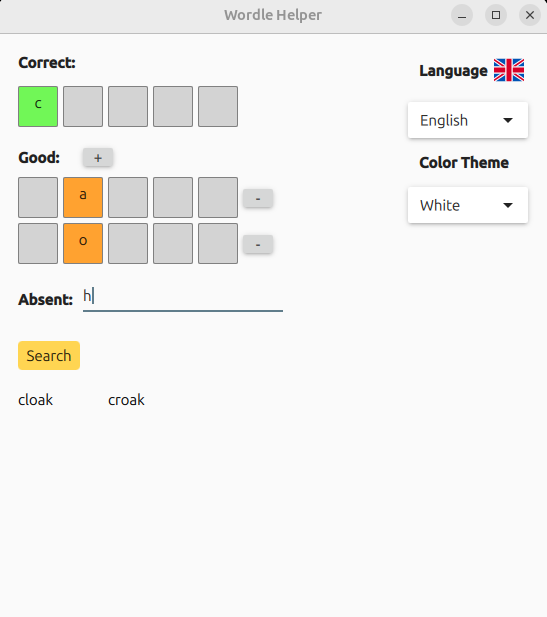
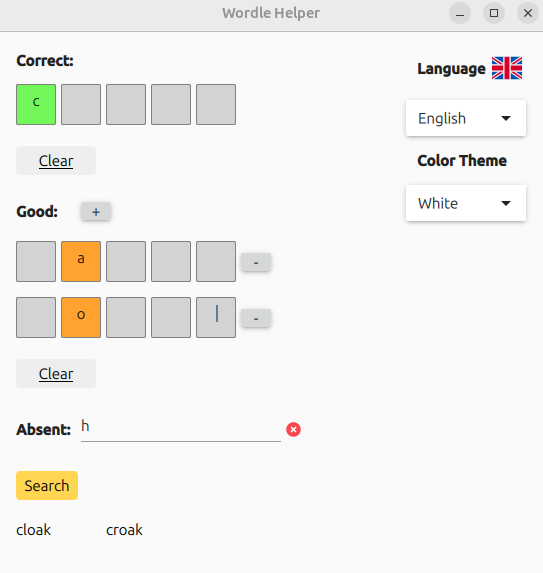
Add clear and delete buttons when letters in rows + minor improvements for optimization purpose

diff --git a/Main.qml b/Main.qml
@@ -1,7 +1,6 @@
 import QtQuick
 import QtQuick.Controls
 import QtQuick.Layouts
-import QtQuick.Controls.Basic
 import QtQuick.Controls.Material
 import QtQml.Models
 import WordleHelper
@@ -21,12 +20,16 @@ ApplicationWindow {
     Material.accent: Material.BlueGrey
 
     property string language: ""
-    property var correctLetters: ["", "", "", "", ""]
     property bool seen: false
 
     // Good rows
     ListModel {
         id: goodRows
+        ListElement { l0: ""; l1: ""; l2: ""; l3: ""; l4: "" }
+    }
+    // Correct row
+    ListModel {
+        id: correctRow
         ListElement { l0: ""; l1: ""; l2: ""; l3: ""; l4: "" }
     }
 
@@ -46,24 +49,66 @@ ApplicationWindow {
         return !rowIsEmpty(last);
     }
 
+    // Function to check that at least one letter is present in a row of a model
+    function modelHasLetters(model){
+        for (var i = 0, row; i < model.count; i++)
+        {
+            row = model.get(i);
+            if (!rowIsEmpty(row))
+            {
+                return true
+            }
+        }
+        return false
+    }
+
+    // Function to clear letters from rows when clearButton pressed
+    function clearModel(model) {
+        model.set(0, { l0:"", l1:"", l2:"", l3:"", l4:"" });
+        while (model.count > 1) model.remove(1);
+    }
+
     component ClearButton: Button {
+        id: clearButton
         text: "Clear"
         Layout.preferredWidth: 80
 
         background: Rectangle {
             radius: 4
             border.width: 1
-            border.color: "#999"
-            color: control.down ? "#ddd" : "#eee"
+            border.color: clearButton.down ? "#ddd" : "#eee"
+            color: clearButton.down ? "#ddd" : "#eee"
         }
 
         contentItem: Text {
-            text: control.text
+            text: clearButton.text
             color: "black"
             horizontalAlignment: Text.AlignHCenter
             verticalAlignment: Text.AlignVCenter
             anchors.centerIn: parent
+            font.underline: true
         }
+    }
+
+    component DeleteButton: Item {
+        id: deleteButton
+        width: 15
+        height: 15
+
+        Image {
+            id: img
+            anchors.fill: parent
+            source: "qrc:/images/cancel.png"
+            fillMode: Image.PreserveAspectFit
+        }
+
+        MouseArea {
+                anchors.fill: parent
+                cursorShape: Qt.PointingHandCursor
+                onClicked: deleteButton.clicked()
+            }
+
+        signal clicked()
     }
 
     WordleBackend {
@@ -101,66 +146,71 @@ ApplicationWindow {
                     RowLayout {
 
                         Repeater {
-                            model: 5
+                            model: correctRow
 
-                            delegate: TextField {
-                                id: field
-                                objectName: "correctField" + index
-                                Layout.preferredWidth: 40
-                                maximumLength: 1
-                                horizontalAlignment: Text.AlignHCenter
-                                text: correctLetters[index]
+                            delegate: RowLayout {
 
-                                onTextChanged: {
+                                property string p0: l0
+                                property string p1: l1
+                                property string p2: l2
+                                property string p3: l3
+                                property string p4: l4
 
-                                    correctLetters[index] = text
-                                    bg1.color = text.trim() === "" ? "lightgray" : "#71F757"
-                                    // Move to next field automatically
-                                    if (text.length === 1 && index < 4) {
-                                        var next = parent.children[index + 1]
-                                        if (next) next.forceActiveFocus()
-                                    }
-                                }
+                                Repeater {
+                                    model: 5
 
-                                Keys.onPressed: function(event){
-                                    if (event.key === Qt.Key_Backspace || event.key === Qt.Key_Delete) {
-                                        if (text === "" && index > 0) {
-                                            // Move to previous field
-                                            var prev = parent.children[index - 1]
-                                            if (prev) {
-                                                prev.forceActiveFocus()
-                                                prev.text = ""  // optional: clear previous
+                                    delegate: TextField {
+                                        Layout.preferredWidth: 40
+                                        maximumLength: 1
+                                        horizontalAlignment: Text.AlignHCenter
+
+                                        text: model.index === 0 ? p0 :
+                                              model.index === 1 ? p1 :
+                                              model.index === 2 ? p2 :
+                                              model.index === 3 ? p3 :
+                                              p4
+
+                                        onTextChanged: {
+
+                                            if (model.index === 0) correctRow.setProperty(0, "l0", text)
+                                            else if (model.index === 1) correctRow.setProperty(0, "l1", text)
+                                            else if (model.index === 2) correctRow.setProperty(0, "l2", text)
+                                            else if (model.index === 3) correctRow.setProperty(0, "l3", text)
+                                            else correctRow.setProperty(0, "l4", text)
+
+                                            bg1.color = text.trim() === "" ? "lightgray" : "#71F757"
+
+                                            if (text.length === 1 && index < 4) {
+                                                var next = parent.children[index + 1]
+                                                if (next) next.forceActiveFocus()
                                             }
                                         }
-                                    }
-                                    else if (event.key === Qt.Key_Left && index > 0) {
-                                        // Left arrow: move to previous field
-                                        var previous = parent.children[index - 1]
-                                        if (previous) previous.forceActiveFocus()
-                                    }
-                                    else if (event.key === Qt.Key_Right && index < 4) {
-                                        // Right arrow: move to next field
-                                        var next = parent.children[index + 1]
-                                        if (next) next.forceActiveFocus()
-                                    }
-                                }
 
-                                background: Rectangle {
-                                    id: bg1
-                                    color: "lightgray"
-                                    border.color: "gray"
-                                    border.width: 1
-                                    radius: 2
+                                        background: Rectangle {
+                                            id: bg1
+                                            color: "lightgray"
+                                            border.color: "gray"
+                                            border.width: 1
+                                            radius: 2
+                                        }
+                                    }
                                 }
                             }
                         }
+                    }
 
+                    ClearButton {
+                        id: clearCorrectButton
+                        visible: modelHasLetters(correctRow)
+                        onClicked: {
+                            clearModel(correctRow)
+                        }
                     }
                 }
 
                 // --- Good row (scalable) ---
                 ColumnLayout {
-                    spacing: 5
+                    spacing: 15
 
                     // Header row with label + add button
                     RowLayout {
@@ -280,6 +330,15 @@ ApplicationWindow {
                             }
                         }
                     }
+
+                    ClearButton {
+                        id: clearGoodButton
+                        visible: modelHasLetters(goodRows)
+
+                        onClicked: {
+                            clearModel(goodRows)
+                        }
+                    }
                 }
 
                 // --- Absent row ---
@@ -298,23 +357,23 @@ ApplicationWindow {
                         placeholderText: "Absent letters (e.g. tle)"
 
                         onTextChanged: {
-                            var textLower = text.toLowerCase()
-
-                            var seen = {}
-                            for(var i=0; i<textLower.length; i++)
-                            {
-                                var c = textLower[i]
-                                if(seen[c])
-                                {
-                                    // Remove the last typed character
-                                    text = textLower.slice(0, -1)
-                                    // Display msg and trigger timer to make it disapeear after 3s
-                                    root.seen = true
-                                    timerMsgDuplicate.start()
-                                    return
+                            let seen = new Set();
+                            for (let c of text.toLowerCase()) {
+                                if (seen.has(c)) {
+                                    root.seen = true;
+                                    timerMsgDuplicate.start();
+                                    text = text.slice(0, -1);
+                                    return;
                                 }
-                                seen[c] = true
+                                seen.add(c);
                             }
+                        }
+                    }
+
+                    DeleteButton {
+                        visible: absentInput.text.length > 0
+                        onClicked: {
+                            absentInput.text = ""
                         }
                     }
                 }
@@ -358,9 +417,14 @@ ApplicationWindow {
 
                     onClicked: {
                         // Correct letters
-                        var correct = correctLetters.map(function(letter) {
-                            return letter === "" ? "-" : letter;
-                        }).join("");
+                        var cRow = correctRow.get(0)
+
+                        var correct =
+                            (cRow.l0 === "" ? "-" : cRow.l0) +
+                            (cRow.l1 === "" ? "-" : cRow.l1) +
+                            (cRow.l2 === "" ? "-" : cRow.l2) +
+                            (cRow.l3 === "" ? "-" : cRow.l3) +
+                            (cRow.l4 === "" ? "-" : cRow.l4)
 
                         // Build ARRAY of good rows
                         var good = []
